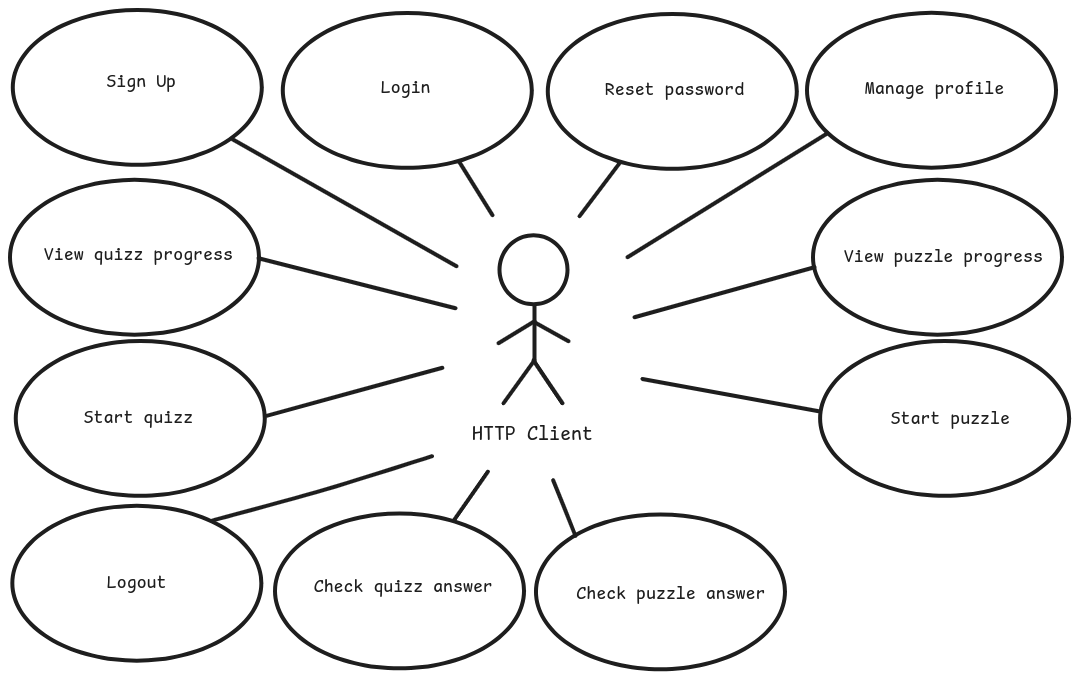
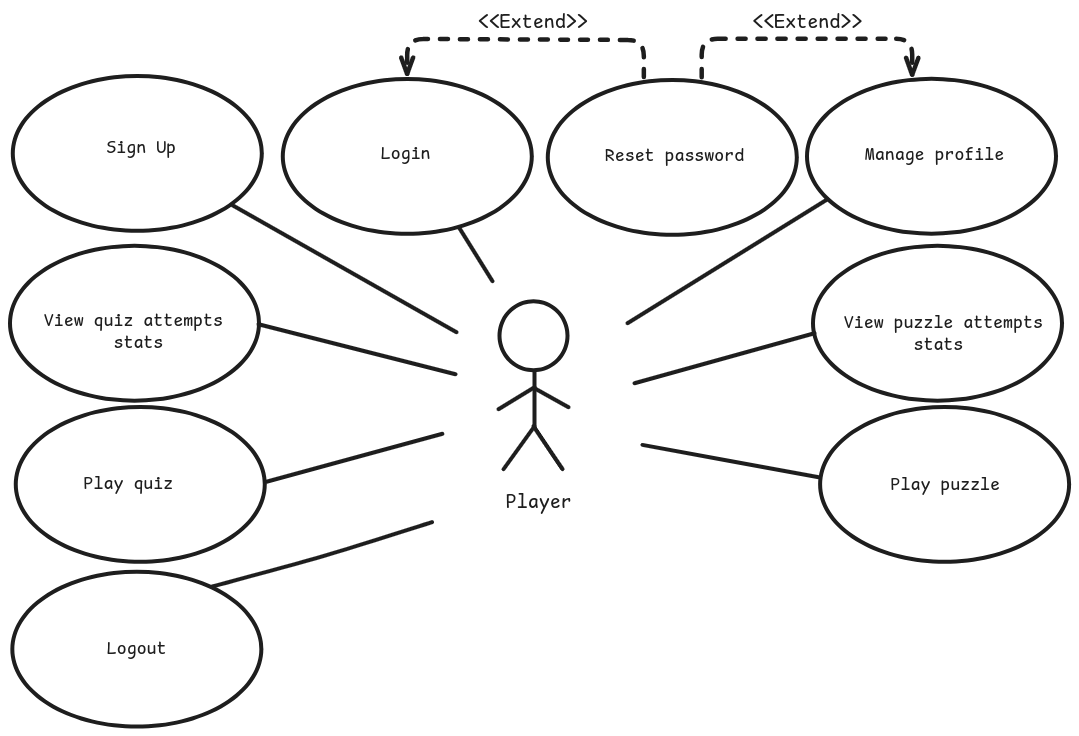
docs: update use case diagram and rename from quizz to quiz

diff --git a/src/docs/requisitos.md b/src/docs/requisitos.md
@@ -4,10 +4,10 @@
 | ---- | ------------------------------------------------------------------------------------------------------------------------------------------------------------------------------------------ |
 | RF01 | O sistema deve prover um forma de criação de cadastro com email e senha para novos usuários                                                                                                |
 | RF02 | O sistema deve ser capaz de autenticar um usuário com email e senha                                                                                                                        |
-| RF03 | O sistema deve fornecer acesso para usuários a atividades (quizz e puzzle) para treinar codificação RGB                                                                                    |
-| RF04 | O sistema deve fornecer uma interface para usuários selecionarem uma atividade (quizz ou puzzle) para fazer                                                                                |
+| RF03 | O sistema deve fornecer acesso para usuários a atividades (quiz e puzzle) para treinar codificação RGB                                                                                     |
+| RF04 | O sistema deve fornecer uma interface para usuários selecionarem uma atividade (quiz ou puzzle) para fazer                                                                                 |
 | RF05 | O sistema deve manter registro do progresso do usuário fora das atividades (quais ele fez, quais ainda não fez)                                                                            |
-| RF06 | A interface citada anteriormente deve conseguir informar quais atividades (quizz ou puzzle) já foram concluídas pelo usuário                                                               |
+| RF06 | A interface citada anteriormente deve conseguir informar quais atividades (quiz ou puzzle) já foram concluídas pelo usuário                                                                |
 | RF07 | O sistema deve manter registro do progresso do usuário em uma atividade (saber quantas e quais perguntas ele respondeu, acertou e errou, e quantas e quais ainda faltam serem respondidas) |
 | RF08 | Ao fim de uma atividade, o sistema deve oferecer uma revisão das questões quais o usuário escolheu a alternativa errada                                                                    |
 | RF09 | Quando o usuário escolher uma alternativa errada, o sistema deve mostrar a alternativa correta                                                                                             |

diff --git a/src/docs/eap.md b/src/docs/eap.md
@@ -38,8 +38,8 @@
 - Implementação
   - Servidor
     - Implementar sistema de autenticação
-    - Implementar rota de inicialização de quizz
+    - Implementar rota de inicialização de quiz
     - Implementar rota de inicialização de puzzle
-    - Implementar rota de verificação de resposta do quizz
+    - Implementar rota de verificação de resposta do quiz
     - Implementar rota de verificação de resposta do puzzle
     - Implementar rota de progresso do usuário
